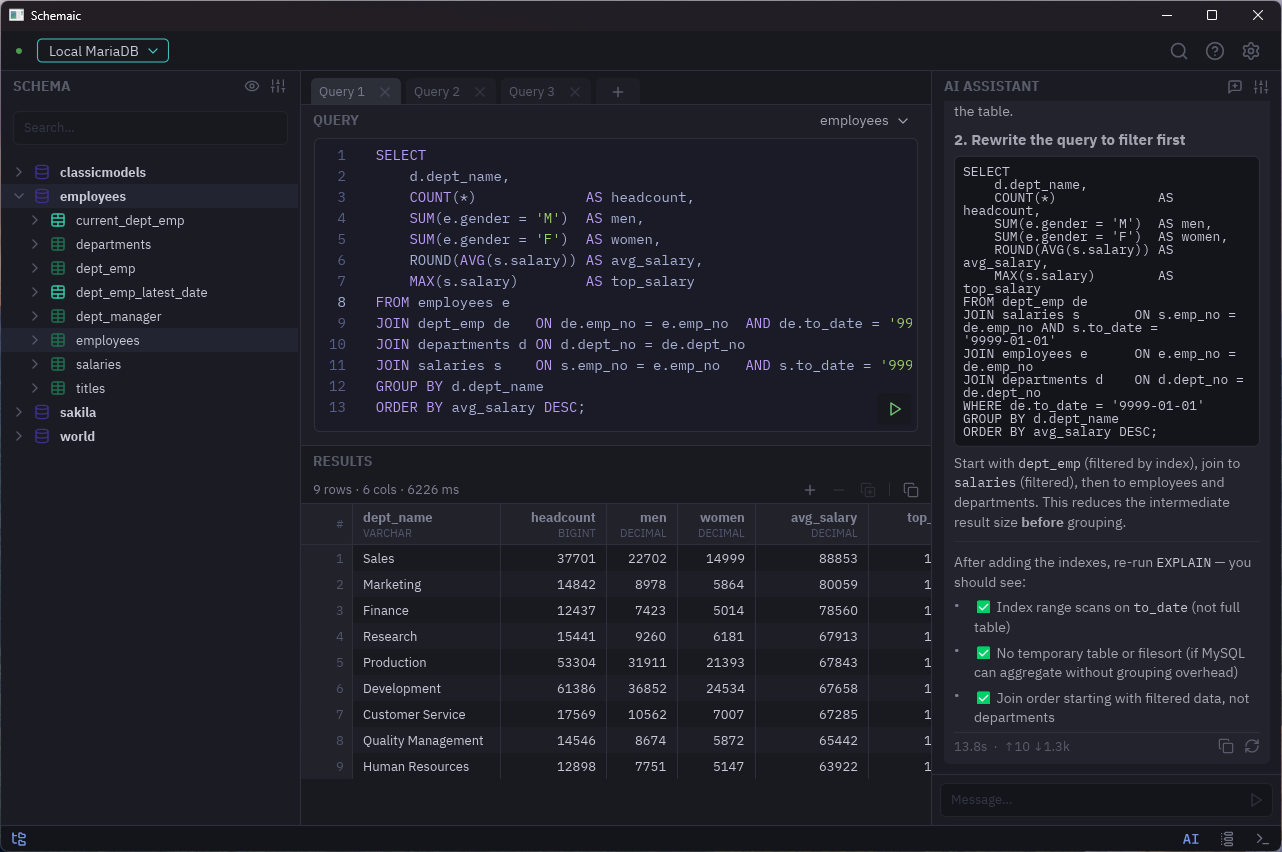
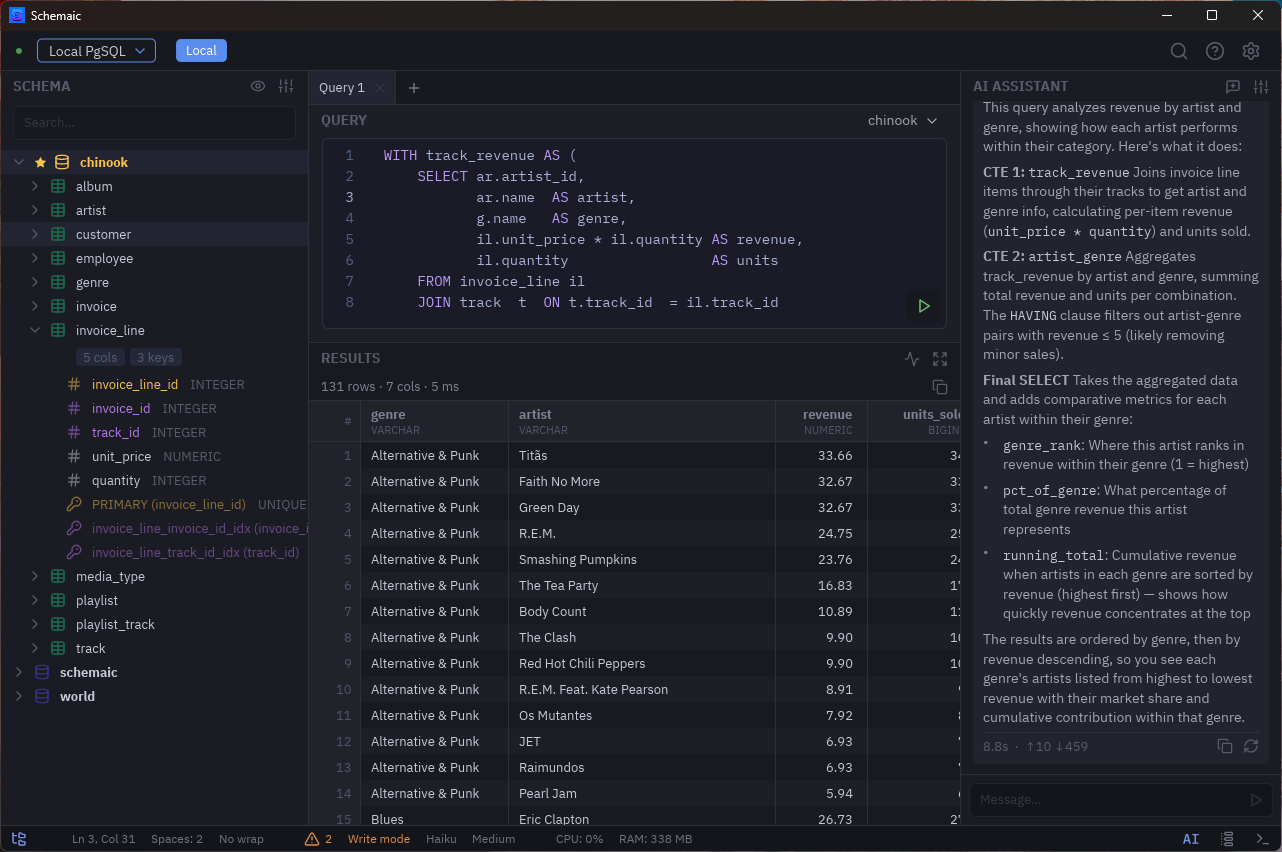
docs: refresh README for shipped features and new screenshot
Adds PostgreSQL to the tagline; reworks the feature list to cover server-side filter/sort, row add/clone/delete, the row JSON panel, EXPLAIN plans, Markdown/HTML export, environment badges, and themes. Updates the screenshot.

diff --git a/README.md b/README.md
@@ -1,10 +1,10 @@
 # Schemaic
 
-A fast, native SQL editor for MySQL and MariaDB — written in Rust, Zed-inspired,
-built to feel instant.
+A fast, native SQL editor for MySQL, MariaDB, and PostgreSQL — written in Rust,
+with an editable results grid and schema-aware intelligence, built to feel instant.
 
 <p align="center">
-  <img src="assets/screenshot.png" alt="Schemaic — query results grid" width="820">
+  <img src="assets/screenshot.png" alt="Schemaic — SQL editor and results grid" width="820">
 </p>
 
 ## Notice
@@ -24,14 +24,21 @@ Encrypting them (via the OS keyring) is a planned fix in the near future.
 
 ## Features
 
-- SQL editor with syntax highlighting, schema-aware autocomplete, and one-key
-  formatting.
-- Results grid with inline editing that writes back to the database
-  (transactional, with a per-row safety net), plus sort, freeze, and export
-  (CSV / JSON / SQL).
-- Schema browser, query history, and a global "find anywhere" for schema objects.
-- Secure connections over SSH tunnels.
-- Built-in AI assistant (pass-through to the `claude` CLI).
+- **SQL editor** — syntax highlighting, schema-aware autocomplete, structure-aware
+  diagnostics (unknown tables/columns, syntax errors, typo hints) from a real
+  per-dialect parser, one-key formatting, auto-closing pairs, and bracket matching.
+- **Results grid** — inline editing that writes back to the database
+  (transactional, with a per-row safety net); add / duplicate / delete rows;
+  server-side filter and sort straight from the column headers; per-column freeze;
+  a whole-row JSON view/edit panel; per-column display formatters; and export to
+  CSV / JSON / SQL / Markdown / HTML.
+- **Navigate** — schema browser with favorites, query history, `EXPLAIN` query
+  plans, and a global "find anywhere" for schema objects.
+- **Connect** — MySQL / MariaDB / PostgreSQL, direct or over SSH tunnels, with
+  per-connection colors, environment badges, and a read-only guard-rail.
+- **AI assistant** — pass-through to the `claude` CLI, with a built-in MCP server
+  so it can read your schema and query the database.
+- **Themeable** — dark / light UI themes and multiple editor color schemes.
 
 ## Build & run
 
